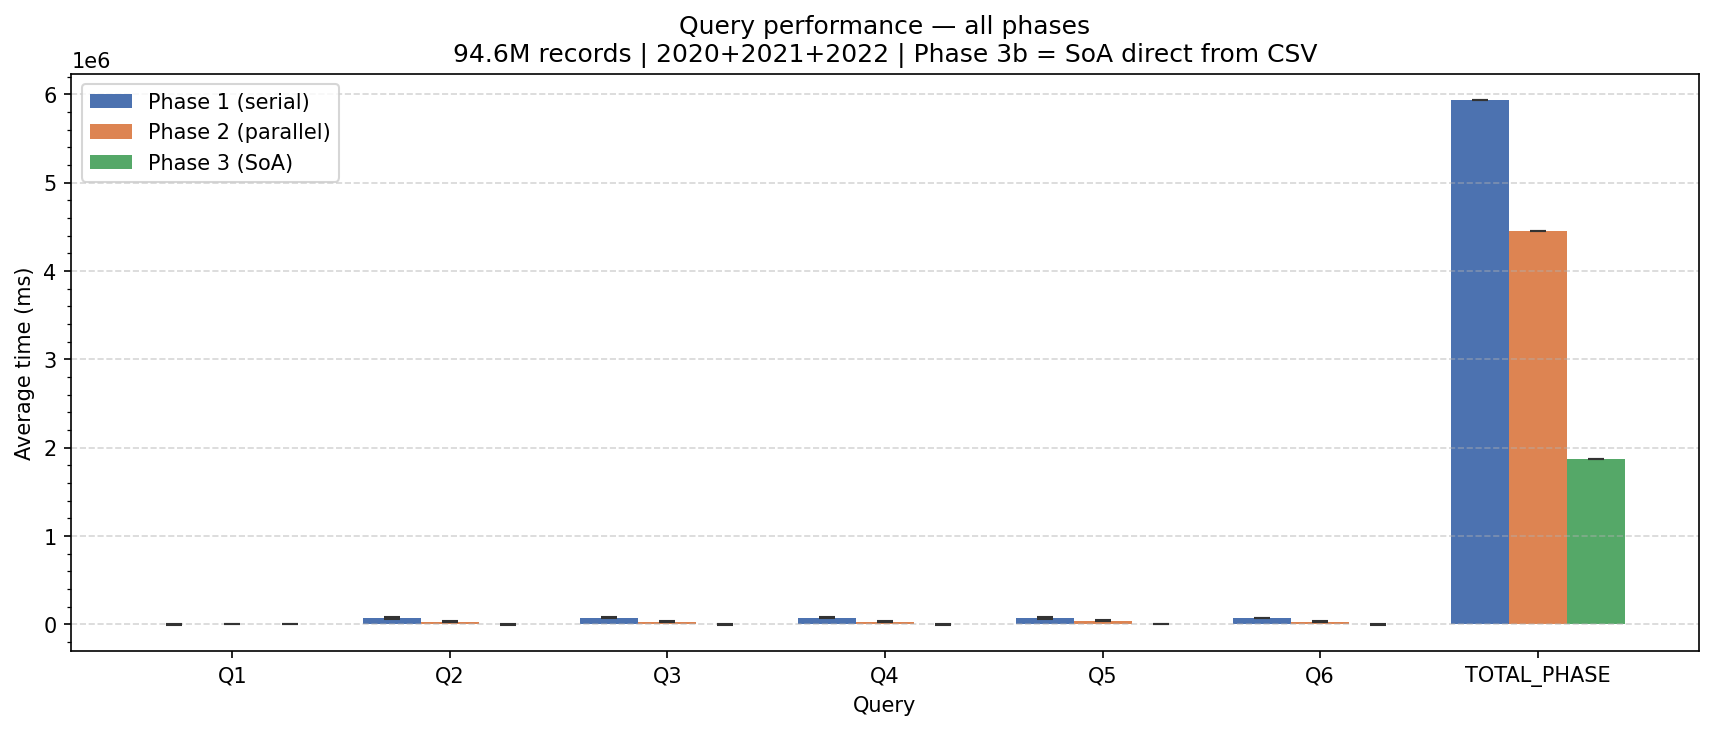
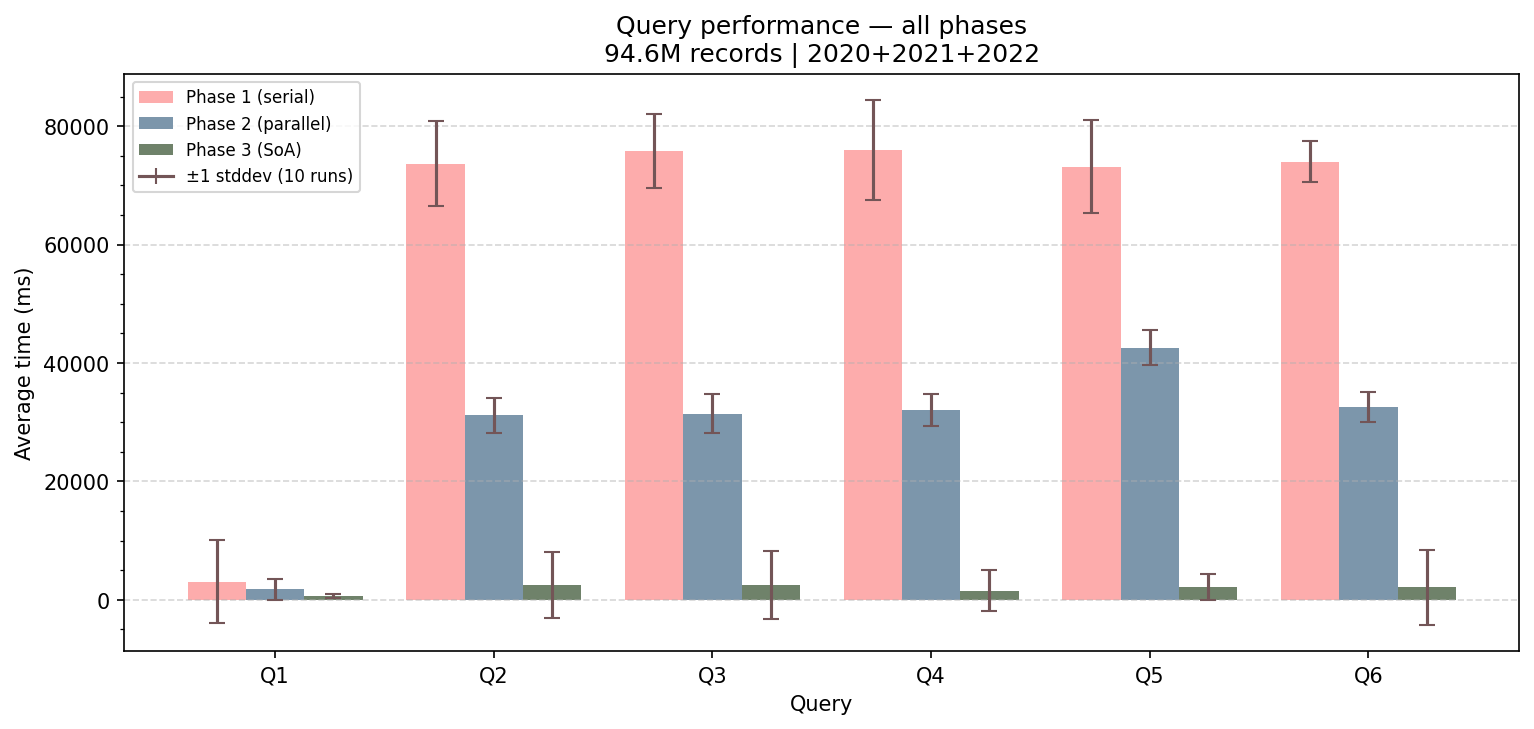
update plots

diff --git a/python/plot_comparison.py b/python/plot_comparison.py
@@ -30,14 +30,15 @@ import matplotlib
 matplotlib.use("Agg")          # headless — no display required
 import matplotlib.pyplot as plt
 import matplotlib.ticker as ticker
+import matplotlib.lines as mlines
 import numpy as np
 
 
 # ── colour palette ────────────────────────────────────────────────────────────
-C1  = "#4C72B0"   # Phase 1 serial  (blue)
-C2  = "#DD8452"   # Phase 2 parallel (orange)
-C3  = "#55A868"   # Phase 3 SoA      (green)
-ERR = "#333333"   # error bar colour
+C1  = "#FDACAC"   # Phase 1 serial   (light coral)
+C2  = "#7C96AB"   # Phase 2 parallel (slate blue)
+C3  = "#6F826A"   # Phase 3 SoA      (sage green)
+ERR = "#735557"   # error bars       (dark mauve)
 
 
 def load_csv(path: str) -> pd.DataFrame:
@@ -59,8 +60,9 @@ def plot_query_times(phases: list, label: str, out_dir: str) -> None:
     phases: list of (name, colour, DataFrame) tuples.
     Produces a grouped bar chart with one cluster per query.
     """
-    # Keep only query rows, use the first phase's query list as canonical order
-    filtered = [(name, col, df[df["query"] != "LOAD"].copy())
+    # Keep only query rows (exclude LOAD and TOTAL_PHASE)
+    _qt_exclude = {"LOAD", "TOTAL_PHASE"}
+    filtered = [(name, col, df[~df["query"].isin(_qt_exclude)].copy())
                 for name, col, df in phases]
 
     queries = filtered[0][2]["query"].tolist()
@@ -81,7 +83,11 @@ def plot_query_times(phases: list, label: str, out_dir: str) -> None:
     ax.set_title(f"Query performance — all phases\n{label}")
     ax.set_xticks(x)
     ax.set_xticklabels(queries)
-    ax.legend()
+    err_handle = mlines.Line2D([], [], color=ERR, linewidth=1.5,
+                               marker="|", markersize=8,
+                               label="±1 stddev (10 runs)")
+    handles, labels = ax.get_legend_handles_labels()
+    ax.legend(handles=handles + [err_handle], loc="upper left", fontsize=8)
     ax.yaxis.set_minor_locator(ticker.AutoMinorLocator())
     ax.grid(axis="y", linestyle="--", alpha=0.5)
 
@@ -103,7 +109,7 @@ def plot_speedup(phases: list, label: str, out_dir: str) -> None:
         return
 
     ncols = len(comparisons)
-    fig, axes = plt.subplots(1, ncols, figsize=(7 * ncols, 4),
+    fig, axes = plt.subplots(1, ncols, figsize=(7 * ncols, 6),
                              sharey=False, squeeze=False)
 
     _exclude = {"LOAD", "TOTAL_PHASE"}
@@ -123,14 +129,16 @@ def plot_speedup(phases: list, label: str, out_dir: str) -> None:
 
         for bar, val in zip(bars, speedup):
             ax.text(bar.get_x() + bar.get_width() / 2,
-                    bar.get_height() + 0.02,
+                    bar.get_height() + 0.05,
                     f"{val:.2f}×",
                     ha="center", va="bottom", fontsize=9)
+
+        ax.margins(y=0.15)
 
         ax.set_xlabel("Query")
         ax.set_ylabel(f"Speedup ({baseline_name} / {cmp_name})")
         ax.set_title(f"Speedup: {cmp_name} vs {baseline_name}\n{label}")
-        ax.legend()
+        ax.legend(loc="upper left", fontsize=8)
         ax.grid(axis="y", linestyle="--", alpha=0.5)
 
     fig.tight_layout()
@@ -157,7 +165,7 @@ def plot_load_time(phases: list, label: str, out_dir: str) -> None:
         print("  (no LOAD rows found — skipping load_time.png)")
         return
 
-    fig, ax = plt.subplots(figsize=(max(6, 2 * len(rows)), 4))
+    fig, ax = plt.subplots(figsize=(max(6, 2 * len(rows)), 5.5))
     labels  = [r["label"]  for r in rows]
     avgs    = [r["avg_ms"] for r in rows]
     stds    = [r["std_ms"] for r in rows]
@@ -166,9 +174,9 @@ def plot_load_time(phases: list, label: str, out_dir: str) -> None:
     bars = ax.bar(labels, avgs, yerr=stds, color=colours, capsize=6,
                   error_kw={"ecolor": ERR}, width=0.4)
 
-    for bar, val in zip(bars, avgs):
+    for bar, val, std in zip(bars, avgs, stds):
         ax.text(bar.get_x() + bar.get_width() / 2,
-                bar.get_height() + max(stds) * 0.05 if stds else 0,
+                val + std + max(avgs) * 0.01,
                 f"{val:.1f} ms",
                 ha="center", va="bottom", fontsize=10)
 
@@ -176,13 +184,16 @@ def plot_load_time(phases: list, label: str, out_dir: str) -> None:
     if len(avgs) > 1 and avgs[0] > 0:
         for i in range(1, len(avgs)):
             sp = avgs[0] / avgs[i] if avgs[i] > 0 else float("nan")
-            ax.annotate(f"({sp:.2f}× vs Phase 1)",
-                        xy=(i, avgs[i]),
-                        xytext=(0, -22), textcoords="offset points",
-                        ha="center", fontsize=8, color="#555555")
+            ax.text(i, avgs[i] * 0.3,
+                    f"({sp:.2f}× vs Phase 1)",
+                    ha="center", fontsize=8, color="black")
 
     ax.set_ylabel("Average load time (ms)")
     ax.set_title(f"CSV load time — all phases\n{label}")
+    err_handle = mlines.Line2D([], [], color=ERR, linewidth=1.5,
+                               marker="|", markersize=8,
+                               label="±1 stddev (10 runs)")
+    ax.legend(handles=[err_handle], loc="upper left", fontsize=8)
     ax.grid(axis="y", linestyle="--", alpha=0.5)
 
     save(fig, os.path.join(out_dir, "load_time.png"))

diff --git a/doc/RESULT_SUMMARY.md b/doc/RESULT_SUMMARY.md
@@ -137,7 +137,9 @@ All three PNG files are in `results/plots/`:
 
 ### `query_times.png`
 Grouped bar chart showing avg query time (ms) for Phase 1, Phase 2, and Phase 3b side by side
-for each query (Q1–Q6). Error bars show ±1 stddev. Demonstrates:
+for each query (Q1–Q6). **I-shaped bars (error bars) = ±1 standard deviation across the 10
+timed runs** — a tall I-bar means high run-to-run variance (e.g. Phase 3b SoA, due to cache
+warming), a short I-bar means consistent timing. Demonstrates:
 - Phase 3b bars are barely visible next to Phase 1/2 bars for Q2–Q6 due to 30–48× speedup
 - Q1 is fast in all phases (index-assisted)
 
@@ -148,7 +150,7 @@ Speedup ratio relative to Phase 1 baseline, separately for Phase 2 (parallelism 
 - Phase 3b delivers 29–48× speedup on the same queries purely from memory layout improvement
 
 ### `load_time.png`
-Bar chart of average CSV load time per phase with ±1 stddev error bars. Shows:
+Bar chart of average CSV load time per phase. I-bars = ±1 stddev (10 runs). Shows:
 - Parallel load (Phase 2) is counterintuitively **slower** than serial (Phase 1)
 - SoA direct load (Phase 3b) is slightly faster than serial AoS load (Phase 1)
 

diff --git a/README.md b/README.md
@@ -1,7 +1,7 @@
 # CMPE-275-mini1 — Memory Overload
 
-**Course**: CMPE 275 — Distributed Application Development
-**Focus**: Memory utilization and concurrent processing
+**Course**: CMPE 275 — Distributed Application Development <br>
+**Focus**: Memory utilization and concurrent processing <br>
 **Dataset**: NYC TLC Yellow Taxi Trip Data (2020–2023)
 
 ---
